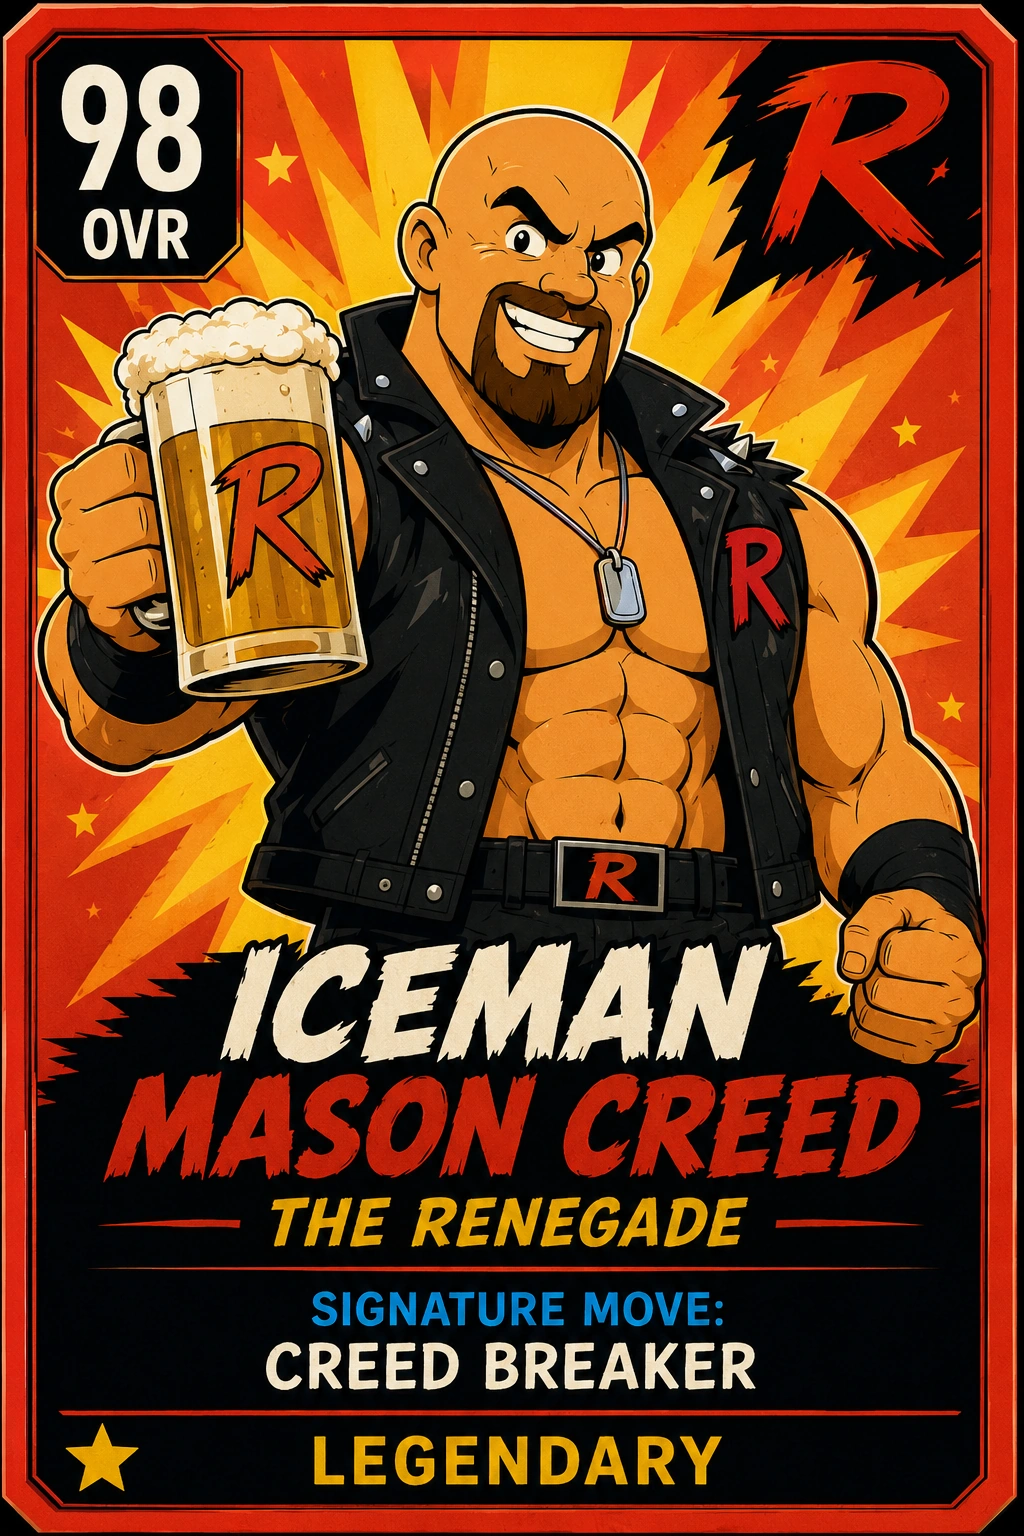
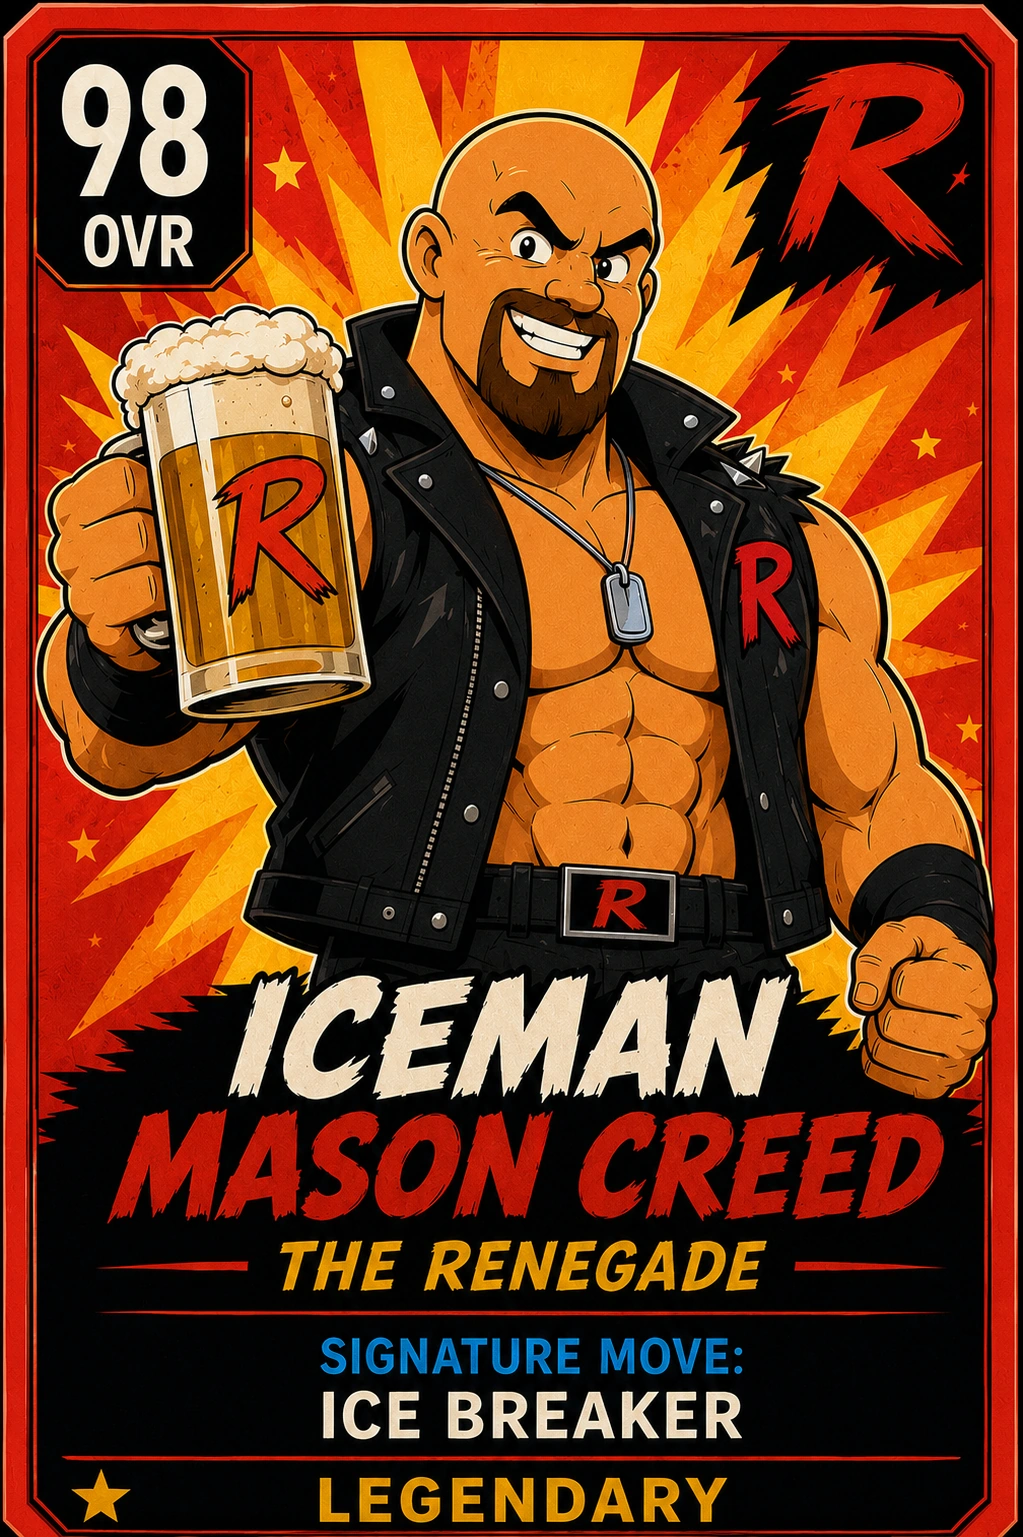
v0.2

diff --git a/data.js b/data.js
@@ -1,1 +1,1 @@
-const WRESTLERS=[{"id": "mason-creed", "name": "\"Iceman\" Mason Creed", "title": "The Renegade", "faction": "Renegades", "signature": "Creed Breaker", "overall": 99, "rarity": "Legendary", "tag": 90, "power": 94, "speed": 85, "technique": 94, "charisma": 100, "versatility": 92, "loyalty": 94, "resilience": 99, "finisher": "Creed Breaker", "image": "assets/mason-creed.webp"}, {"id": "rex-valor", "name": "Rex Valor", "title": "The Main Attraction", "faction": "Icons", "signature": "Valor Drop", "overall": 99, "rarity": "Legendary", "tag": 89, "power": 93, "speed": 87, "technique": 90, "charisma": 100, "versatility": 93, "loyalty": 90, "resilience": 97, "finisher": "Valor Drop", "image": "assets/rex-valor.webp"}, {"id": "caleb-crown", "name": "Caleb Crown", "title": "The Mat Master", "faction": "Technicians", "signature": "Crown Lock", "overall": 98, "rarity": "Legendary", "tag": 97, "power": 80, "speed": 87, "technique": 100, "charisma": 90, "versatility": 100, "loyalty": 96, "resilience": 96, "finisher": "Crown Lock", "image": "assets/caleb-crown.webp"}, {"id": "jaxon-flash", "name": "Jaxon Flash", "title": "The Showman", "faction": "Showmen", "signature": "Flashpoint Kick", "overall": 99, "rarity": "Legendary", "tag": 98, "power": 78, "speed": 97, "technique": 99, "charisma": 98, "versatility": 99, "loyalty": 86, "resilience": 97, "finisher": "Flashpoint Kick", "image": "assets/jaxon-flash.webp"}, {"id": "elias-mourne", "name": "Elias Mourne", "title": "The Gravekeeper", "faction": "Dark Order", "signature": "Final Rites", "overall": 99, "rarity": "Mythic", "tag": 95, "power": 98, "speed": 78, "technique": 92, "charisma": 98, "versatility": 80, "loyalty": 98, "resilience": 100, "finisher": "Final Rites", "image": "assets/elias-mourne.webp"}, {"id": "kade-pyre", "name": "Kade Pyre", "title": "The Inferno", "faction": "Dark Order", "signature": "Pyre Bomb", "overall": 95, "rarity": "Legendary", "tag": 97, "power": 99, "speed": 70, "technique": 80, "charisma": 88, "versatility": 70, "loyalty": 95, "resilience": 96, "finisher": "Pyre Bomb", "image": "assets/kade-pyre.webp"}, {"id": "milo-graves", "name": "Milo Graves", "title": "Patchwork", "faction": "Outcasts", "signature": "Grave Clutch", "overall": 94, "rarity": "Epic", "tag": 92, "power": 86, "speed": 70, "technique": 84, "charisma": 94, "versatility": 92, "loyalty": 88, "resilience": 99, "finisher": "Grave Clutch", "image": "assets/milo-graves.webp"}, {"id": "victor-royale", "name": "Victor Royale", "title": "The Kingmaker", "faction": "Royals", "signature": "Royal Decree", "overall": 97, "rarity": "Legendary", "tag": 96, "power": 92, "speed": 78, "technique": 94, "charisma": 96, "versatility": 95, "loyalty": 78, "resilience": 95, "finisher": "Royal Decree", "image": "assets/victor-royale.webp"}, {"id": "grant-atlas", "name": "Grant Atlas", "title": "The Olympian", "faction": "Technicians", "signature": "Atlas Slam", "overall": 98, "rarity": "Legendary", "tag": 95, "power": 90, "speed": 88, "technique": 100, "charisma": 89, "versatility": 99, "loyalty": 91, "resilience": 97, "finisher": "Atlas Slam", "image": "assets/grant-atlas.webp"}, {"id": "malik-storm", "name": "Malik Storm", "title": "The Street Champion", "faction": "Renegades", "signature": "Storm Break", "overall": 95, "rarity": "Epic", "tag": 93, "power": 86, "speed": 92, "technique": 90, "charisma": 93, "versatility": 96, "loyalty": 92, "resilience": 93, "finisher": "Storm Break", "image": "assets/malik-storm.webp"}, {"id": "kai-zenith", "name": "Kai Zenith", "title": "The High-Life Hero", "faction": "High Flyers", "signature": "Zenith Splash", "overall": 95, "rarity": "Epic", "tag": 91, "power": 80, "speed": 99, "technique": 92, "charisma": 91, "versatility": 98, "loyalty": 87, "resilience": 92, "finisher": "Zenith Splash", "image": "assets/kai-zenith.webp"}, {"id": "el-relampago", "name": "El Rel\u00e1mpago", "title": "Masked Lightning", "faction": "High Flyers", "signature": "Lightning 720", "overall": 95, "rarity": "Epic", "tag": 96, "power": 68, "speed": 100, "technique": 97, "charisma": 95, "versatility": 98, "loyalty": 94, "resilience": 91, "finisher": "Lightning 720", "image": "assets/el-relampago.webp"}, {"id": "max-liberty", "name": "Max Liberty", "title": "The Standard-Bearer", "faction": "Icons", "signature": "Liberty Driver", "overall": 98, "rarity": "Legendary", "tag": 88, "power": 97, "speed": 82, "technique": 88, "charisma": 99, "versatility": 94, "loyalty": 97, "resilience": 98, "finisher": "Liberty Driver", "image": "assets/max-liberty.webp"}, {"id": "ronan-vale", "name": "Ronan Vale", "title": "The Tribal Warlord", "faction": "Dynasty", "signature": "Warlord Spear", "overall": 98, "rarity": "Legendary", "tag": 87, "power": 98, "speed": 82, "technique": 90, "charisma": 98, "versatility": 90, "loyalty": 82, "resilience": 97, "finisher": "Warlord Spear", "image": "assets/ronan-vale.webp"}, {"id": "colton-legacy", "name": "Colton Legacy", "title": "The Golden Heir", "faction": "Royals", "signature": "Legacy Cross", "overall": 97, "rarity": "Legendary", "tag": 90, "power": 90, "speed": 87, "technique": 93, "charisma": 97, "versatility": 98, "loyalty": 91, "resilience": 95, "finisher": "Legacy Cross", "image": "assets/colton-legacy.webp"}, {"id": "ace-riot", "name": "Ace Riot", "title": "The Outsider", "faction": "Outcasts", "signature": "Riot Trigger", "overall": 97, "rarity": "Legendary", "tag": 91, "power": 82, "speed": 84, "technique": 96, "charisma": 98, "versatility": 99, "loyalty": 74, "resilience": 95, "finisher": "Riot Trigger", "image": "assets/ace-riot.webp"}, {"id": "silas-phoenix", "name": "Silas Phoenix", "title": "The Visionary", "faction": "Showmen", "signature": "Phoenix Stomp", "overall": 98, "rarity": "Legendary", "tag": 93, "power": 88, "speed": 95, "technique": 97, "charisma": 96, "versatility": 99, "loyalty": 72, "resilience": 95, "finisher": "Phoenix Stomp", "image": "assets/silas-phoenix.webp"}, {"id": "titan-briggs", "name": "Titan Briggs", "title": "The Juggernaut", "faction": "Powerhouse", "signature": "Titan Hammer", "overall": 96, "rarity": "Legendary", "tag": 75, "power": 100, "speed": 85, "technique": 70, "charisma": 94, "versatility": 60, "loyalty": 88, "resilience": 96, "finisher": "Titan Hammer", "image": "assets/titan-briggs.webp"}, {"id": "nightwatch", "name": "Nightwatch", "title": "The Vigilante", "faction": "Dark Order", "signature": "Midnight Drop", "overall": 97, "rarity": "Legendary", "tag": 94, "power": 90, "speed": 84, "technique": 91, "charisma": 98, "versatility": 96, "loyalty": 95, "resilience": 96, "finisher": "Midnight Drop", "image": "assets/nightwatch.webp"}, {"id": "rocco-royale", "name": "Rocco Royale", "title": "The Wildman", "faction": "Showmen", "signature": "Savage Eclipse", "overall": 98, "rarity": "Legendary", "tag": 92, "power": 87, "speed": 90, "technique": 94, "charisma": 99, "versatility": 97, "loyalty": 90, "resilience": 96, "finisher": "Savage Eclipse", "image": "assets/rocco-royale.webp"}];const RELATIONSHIPS=[{"a": "elias-mourne", "b": "kade-pyre", "teamName": "The Gravekeepers", "chemistry": 100, "type": "legendary"}, {"a": "jaxon-flash", "b": "victor-royale", "teamName": "The Revolution", "chemistry": 100, "type": "legendary"}, {"a": "rex-valor", "b": "milo-graves", "teamName": "Chaos & Glory", "chemistry": 98, "type": "legendary"}, {"a": "mason-creed", "b": "victor-royale", "teamName": "The Iron Pact", "chemistry": 96, "type": "legendary"}, {"a": "ronan-vale", "b": "silas-phoenix", "teamName": "The Vanguard", "chemistry": 96, "type": "legendary"}, {"a": "nightwatch", "b": "titan-briggs", "teamName": "Midnight Titans", "chemistry": 88, "type": "alliance"}, {"a": "el-relampago", "b": "kai-zenith", "teamName": "Skyfire", "chemistry": 94, "type": "legendary"}, {"a": "malik-storm", "b": "kai-zenith", "teamName": "Storm Zenith", "chemistry": 87, "type": "alliance"}, {"a": "max-liberty", "b": "jaxon-flash", "teamName": "Prime Time", "chemistry": 88, "type": "alliance"}, {"a": "caleb-crown", "b": "jaxon-flash", "teamName": "Bitter Rivals", "chemistry": 55, "type": "rivalry"}, {"a": "mason-creed", "b": "rex-valor", "teamName": "Iconic Rivals", "chemistry": 64, "type": "rivalry"}, {"a": "max-liberty", "b": "ace-riot", "teamName": "Bitter Rivals", "chemistry": 58, "type": "rivalry"}];
+const WRESTLERS=[{"id": "mason-creed", "name": "\"Iceman\" Mason Creed", "title": "The Renegade", "faction": "Renegades", "signature": "Ice Breaker", "overall": 99, "rarity": "Legendary", "tag": 90, "power": 94, "speed": 85, "technique": 94, "charisma": 100, "versatility": 92, "loyalty": 94, "resilience": 99, "finisher": "Ice Breaker", "image": "assets/mason-creed.webp"}, {"id": "rex-valor", "name": "Rex Valor", "title": "The Main Attraction", "faction": "Icons", "signature": "Valor Drop", "overall": 99, "rarity": "Legendary", "tag": 89, "power": 93, "speed": 87, "technique": 90, "charisma": 100, "versatility": 93, "loyalty": 90, "resilience": 97, "finisher": "Valor Drop", "image": "assets/rex-valor.webp"}, {"id": "caleb-crown", "name": "Caleb Crown", "title": "The Mat Master", "faction": "Technicians", "signature": "Crown Lock", "overall": 98, "rarity": "Legendary", "tag": 97, "power": 80, "speed": 87, "technique": 100, "charisma": 90, "versatility": 100, "loyalty": 96, "resilience": 96, "finisher": "Crown Lock", "image": "assets/caleb-crown.webp"}, {"id": "jaxon-flash", "name": "Jaxon Flash", "title": "The Showman", "faction": "Showmen", "signature": "Flashpoint Kick", "overall": 99, "rarity": "Legendary", "tag": 98, "power": 78, "speed": 97, "technique": 99, "charisma": 98, "versatility": 99, "loyalty": 86, "resilience": 97, "finisher": "Flashpoint Kick", "image": "assets/jaxon-flash.webp"}, {"id": "elias-mourne", "name": "Elias Mourne", "title": "The Gravekeeper", "faction": "Dark Order", "signature": "Final Rites", "overall": 99, "rarity": "Mythic", "tag": 95, "power": 98, "speed": 78, "technique": 92, "charisma": 98, "versatility": 80, "loyalty": 98, "resilience": 100, "finisher": "Final Rites", "image": "assets/elias-mourne.webp"}, {"id": "kade-pyre", "name": "Kade Pyre", "title": "The Inferno", "faction": "Dark Order", "signature": "Pyre Bomb", "overall": 95, "rarity": "Legendary", "tag": 97, "power": 99, "speed": 70, "technique": 80, "charisma": 88, "versatility": 70, "loyalty": 95, "resilience": 96, "finisher": "Pyre Bomb", "image": "assets/kade-pyre.webp"}, {"id": "milo-graves", "name": "Milo Graves", "title": "Patchwork", "faction": "Outcasts", "signature": "Grave Clutch", "overall": 94, "rarity": "Epic", "tag": 92, "power": 86, "speed": 70, "technique": 84, "charisma": 94, "versatility": 92, "loyalty": 88, "resilience": 99, "finisher": "Grave Clutch", "image": "assets/milo-graves.webp"}, {"id": "victor-royale", "name": "Victor Royale", "title": "The Kingmaker", "faction": "Royal Dynasty", "signature": "Royal Decree", "overall": 98, "rarity": "Legendary", "tag": 96, "power": 92, "speed": 78, "technique": 94, "charisma": 96, "versatility": 95, "loyalty": 78, "resilience": 95, "finisher": "Royal Decree", "image": "assets/victor-royale.webp"}, {"id": "grant-atlas", "name": "Grant Atlas", "title": "The Olympian", "faction": "Technicians", "signature": "Atlas Slam", "overall": 98, "rarity": "Legendary", "tag": 95, "power": 90, "speed": 88, "technique": 100, "charisma": 89, "versatility": 99, "loyalty": 91, "resilience": 97, "finisher": "Atlas Slam", "image": "assets/grant-atlas.webp"}, {"id": "malik-storm", "name": "Malik Storm", "title": "The Street Champion", "faction": "Renegades", "signature": "Storm Break", "overall": 95, "rarity": "Epic", "tag": 93, "power": 86, "speed": 92, "technique": 90, "charisma": 93, "versatility": 96, "loyalty": 92, "resilience": 93, "finisher": "Storm Break", "image": "assets/malik-storm.webp"}, {"id": "kai-zenith", "name": "Kai Zenith", "title": "The High-Life Hero", "faction": "High Flyers", "signature": "Zenith Splash", "overall": 95, "rarity": "Epic", "tag": 91, "power": 80, "speed": 99, "technique": 92, "charisma": 91, "versatility": 98, "loyalty": 87, "resilience": 92, "finisher": "Zenith Splash", "image": "assets/kai-zenith.webp"}, {"id": "el-relampago", "name": "El Rel\u00e1mpago", "title": "Masked Lightning", "faction": "High Flyers", "signature": "Lightning 720", "overall": 95, "rarity": "Epic", "tag": 96, "power": 68, "speed": 100, "technique": 97, "charisma": 95, "versatility": 98, "loyalty": 94, "resilience": 91, "finisher": "Lightning 720", "image": "assets/el-relampago.webp"}, {"id": "max-liberty", "name": "Max Liberty", "title": "The Standard-Bearer", "faction": "Icons", "signature": "Liberty Driver", "overall": 98, "rarity": "Legendary", "tag": 88, "power": 97, "speed": 82, "technique": 88, "charisma": 99, "versatility": 94, "loyalty": 97, "resilience": 98, "finisher": "Liberty Driver", "image": "assets/max-liberty.webp"}, {"id": "ronan-vale", "name": "Ronan Vale", "title": "The Tribal Warlord", "faction": "Dynasty", "signature": "Warlord Spear", "overall": 98, "rarity": "Legendary", "tag": 87, "power": 98, "speed": 82, "technique": 90, "charisma": 98, "versatility": 90, "loyalty": 82, "resilience": 97, "finisher": "Warlord Spear", "image": "assets/ronan-vale.webp"}, {"id": "colton-legacy", "name": "Colton Legacy", "title": "The Golden Heir", "faction": "Royals", "signature": "Legacy Cross", "overall": 97, "rarity": "Legendary", "tag": 90, "power": 90, "speed": 87, "technique": 93, "charisma": 97, "versatility": 98, "loyalty": 91, "resilience": 95, "finisher": "Legacy Cross", "image": "assets/colton-legacy.webp"}, {"id": "ace-riot", "name": "Ace Riot", "title": "The Outsider", "faction": "Outcasts", "signature": "Riot Trigger", "overall": 97, "rarity": "Legendary", "tag": 91, "power": 82, "speed": 84, "technique": 96, "charisma": 98, "versatility": 99, "loyalty": 74, "resilience": 95, "finisher": "Riot Trigger", "image": "assets/ace-riot.webp"}, {"id": "silas-phoenix", "name": "Silas Phoenix", "title": "The Visionary", "faction": "Showmen", "signature": "Phoenix Stomp", "overall": 98, "rarity": "Legendary", "tag": 93, "power": 88, "speed": 95, "technique": 97, "charisma": 96, "versatility": 99, "loyalty": 72, "resilience": 95, "finisher": "Phoenix Stomp", "image": "assets/silas-phoenix.webp"}, {"id": "titan-briggs", "name": "Titan Briggs", "title": "The Juggernaut", "faction": "Powerhouse", "signature": "Titan Hammer", "overall": 96, "rarity": "Legendary", "tag": 75, "power": 100, "speed": 85, "technique": 70, "charisma": 94, "versatility": 60, "loyalty": 88, "resilience": 96, "finisher": "Titan Hammer", "image": "assets/titan-briggs.webp"}, {"id": "nightwatch", "name": "Nightwatch", "title": "The Vigilante", "faction": "Dark Order", "signature": "Midnight Drop", "overall": 97, "rarity": "Legendary", "tag": 94, "power": 90, "speed": 84, "technique": 91, "charisma": 98, "versatility": 96, "loyalty": 95, "resilience": 96, "finisher": "Midnight Drop", "image": "assets/nightwatch.webp"}, {"id": "rocco-royale", "name": "Rocco Royale", "title": "The Wildman", "faction": "Showmen", "signature": "Savage Eclipse", "overall": 98, "rarity": "Legendary", "tag": 92, "power": 87, "speed": 90, "technique": 94, "charisma": 99, "versatility": 97, "loyalty": 90, "resilience": 96, "finisher": "Savage Eclipse", "image": "assets/rocco-royale.webp"}];const RELATIONSHIPS=[{"a": "elias-mourne", "b": "kade-pyre", "teamName": "The Gravekeepers", "chemistry": 100, "type": "legendary"}, {"a": "jaxon-flash", "b": "victor-royale", "teamName": "The Revolution", "chemistry": 100, "type": "legendary"}, {"a": "rex-valor", "b": "milo-graves", "teamName": "Chaos & Glory", "chemistry": 98, "type": "legendary"}, {"a": "mason-creed", "b": "victor-royale", "teamName": "The Iron Pact", "chemistry": 96, "type": "legendary"}, {"a": "ronan-vale", "b": "silas-phoenix", "teamName": "The Vanguard", "chemistry": 96, "type": "legendary"}, {"a": "nightwatch", "b": "titan-briggs", "teamName": "Midnight Titans", "chemistry": 88, "type": "alliance"}, {"a": "el-relampago", "b": "kai-zenith", "teamName": "Skyfire", "chemistry": 94, "type": "legendary"}, {"a": "malik-storm", "b": "kai-zenith", "teamName": "Storm Zenith", "chemistry": 87, "type": "alliance"}, {"a": "max-liberty", "b": "jaxon-flash", "teamName": "Prime Time", "chemistry": 88, "type": "alliance"}, {"a": "caleb-crown", "b": "jaxon-flash", "teamName": "Bitter Rivals", "chemistry": 55, "type": "rivalry"}, {"a": "mason-creed", "b": "rex-valor", "teamName": "Iconic Rivals", "chemistry": 64, "type": "rivalry"}, {"a": "max-liberty", "b": "ace-riot", "teamName": "Bitter Rivals", "chemistry": 58, "type": "rivalry"}];

diff --git a/README.md b/README.md
@@ -7,3 +7,10 @@ Includes 20 original illustrated character cards, factions, titles, signature mo
 ## Mason Creed artwork update
 - Replaced Mason Creed placeholder with the approved Classic Saturday Morning cartoon card.
 - Updated display name to "Iceman" Mason Creed.
+
+
+## v0.2 character update
+- Installed the final approved “Iceman” Mason Creed card.
+- Renamed his signature move from Creed Breaker to Ice Breaker throughout the game.
+- Installed the final approved long-haired Victor Royale card.
+- Updated Victor Royale to Royal Dynasty and OVR 98 to match the card.